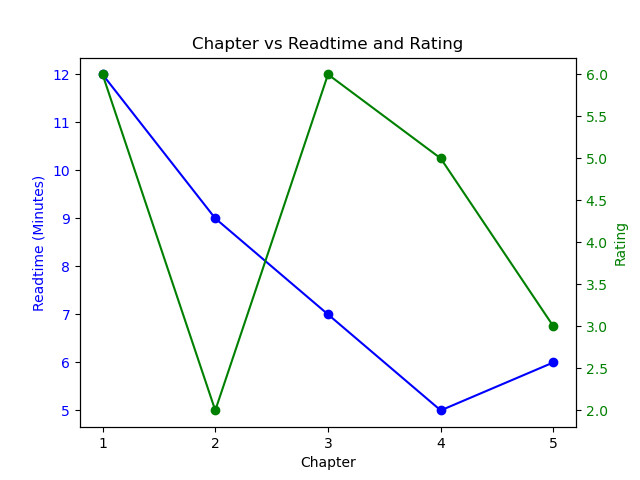
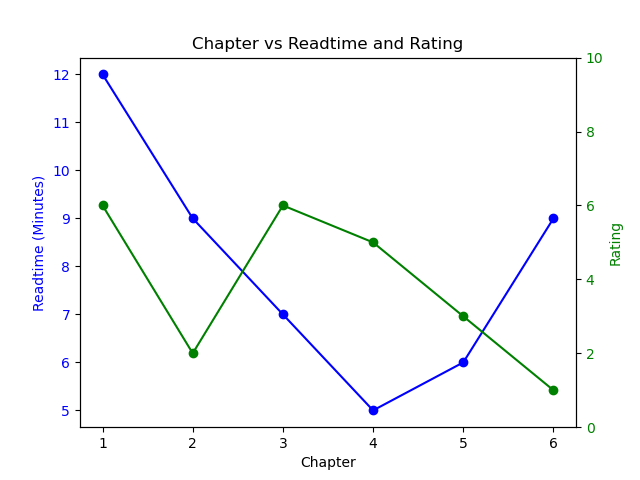
Read 3-6

diff --git a/timenergy.md b/timenergy.md
@@ -12,6 +12,7 @@ Chapter,Readtime,Rating
 03,07,6
 04,05,5
 05,06,3 
+06,09,1
 ```
 
 # Timenergy  
@@ -23,7 +24,6 @@ Chapter,Readtime,Rating
 - Labor power - Labor is effort expended, labor power is potential labor made availible to, or put at the disposal of someoen elses interests.
 
 # 01 - Exhaustion is the spirit of our age
-
 ## Quotes
 - "How much stress goes into trying to enjoy leisure time?"
 
@@ -55,4 +55,27 @@ Chapter,Readtime,Rating
 - Learning used to be a lesiure activity, now it's reduced to just a way to make more money in the labor market
 
 # 04 - The structural stultification of timenergy
+## Notes
+- Grandiose language
 
+## Quotes
+- "Nothing worth doing can be done in a passive way"
+
+## Concepts
+- Without *truly* having free time you can't actualise yourself
+- if free time lacks energy it's worthless time
+
+# 05 - The American Dream: Slavery for all
+## Concepts
+- Bare life is spent in a state of preoccupation with basic animal concerns 
+
+## Notes 
+- The parts about slavery etc felt contrarian for the sake of it
+- The author claims that the only reason people disagree with them is because they don't understand
+
+# 06 - Being-in-the-world
+## Notes
+- Author implies timenergy theory is not subjective
+  - Does this by trying to claim a "physics" understanding of time is non-objective then word vomits a bunch to try and twist everything to justify the claim
+- Felt like the author reached the conclusion then went to look for a way to justify it
+- Chapter felt very bloated 
